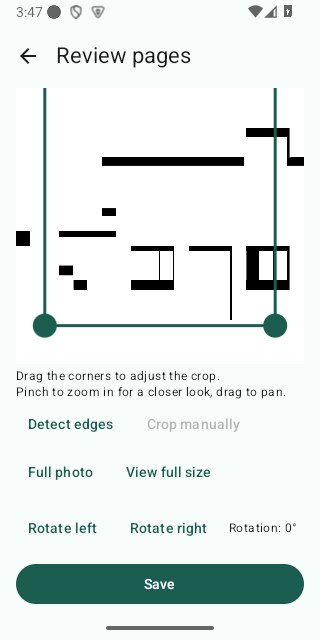
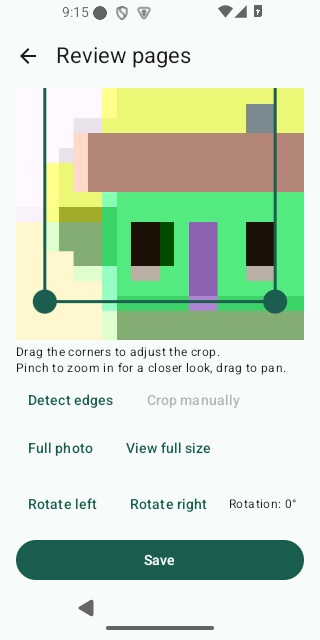
feat(android): default Page Review's filter to color
Color is the only one of the three filters that can't lose content —
grayscale and black-and-white both discard information a page might
actually need — so it's a safer default than black-and-white for the
first page of a capture session.

Closes #84

diff --git a/android/app/src/androidTest/java/com/github/tomasbjerre/keepsheet/PageReviewScreenTest.kt b/android/app/src/androidTest/java/com/github/tomasbjerre/keepsheet/PageReviewScreenTest.kt
@@ -64,24 +64,28 @@ class PageReviewScreenTest {
     fun tearDown() = Intents.release()
 
     /** Selection is tracked per-page (by uri), not by slot — tapping a different thumbnail
-     * must show THAT page's own filter, not whatever the previously selected page had. */
+     * must show THAT page's own filter, not whatever the previously selected page had.
+     * Picks Black & white (not color, see keepsheet#84's new default) for the first page
+     * precisely because it differs from the default every page starts with, so the second
+     * page's filter staying at that default is actual evidence of per-page tracking, not a
+     * coincidence of both pages starting equal. */
     @Test
     fun selectingAPageShowsItsOwnFilterNotThePreviouslySelectedPagesFilter() {
         importTwoSamplePages()
 
-        composeRule.onNodeWithText("Color").performScrollTo().performClick()
-        composeRule.onNodeWithText("Color").assertIsSelected()
+        composeRule.onNodeWithText("Black & white").performScrollTo().performClick()
+        composeRule.onNodeWithText("Black & white").assertIsSelected()
 
         // Scrolled the thumbnail strip out of view above — scrollTo() on a LazyRow item
         // doesn't propagate to the outer Column, so scroll to a direct Column child
         // (right above the strip) to bring the whole top of the screen back into view.
         composeRule.onNodeWithText("2 page(s)").performScrollTo()
         composeRule.onAllNodesWithTag(REVIEW_THUMBNAIL_TEST_TAG)[1].performClick()
-        composeRule.onNodeWithText("Black & white").performScrollTo().assertIsSelected()
+        composeRule.onNodeWithText("Color").performScrollTo().assertIsSelected()
 
         composeRule.onNodeWithText("2 page(s)").performScrollTo()
         composeRule.onAllNodesWithTag(REVIEW_THUMBNAIL_TEST_TAG)[0].performClick()
-        composeRule.onNodeWithText("Color").performScrollTo().assertIsSelected()
+        composeRule.onNodeWithText("Black & white").performScrollTo().assertIsSelected()
     }
 
     /** See specs/ui-flows.md#3-page-review (keepsheet#67): a read-only full-screen view of

diff --git a/android/app/src/main/java/com/github/tomasbjerre/keepsheet/pdf/PageFilters.kt b/android/app/src/main/java/com/github/tomasbjerre/keepsheet/pdf/PageFilters.kt
@@ -29,9 +29,9 @@ fun applyFilter(
 
 /**
  * The filter a page starts with: the last one used in the current capture session, or
- * black-and-white for the first page of a new one.
+ * color for the first page of a new one (keepsheet#84).
  */
-fun defaultFilter(lastUsed: PageFilter?): PageFilter = lastUsed ?: PageFilter.BLACK_AND_WHITE
+fun defaultFilter(lastUsed: PageFilter?): PageFilter = lastUsed ?: PageFilter.COLOR
 
 private const val BLACK = 0xFF000000.toInt()
 private const val WHITE = 0xFFFFFFFF.toInt()

diff --git a/android/app/src/test/java/com/github/tomasbjerre/keepsheet/pdf/PageFiltersTest.kt b/android/app/src/test/java/com/github/tomasbjerre/keepsheet/pdf/PageFiltersTest.kt
@@ -98,8 +98,8 @@ class PageFiltersTest {
     }
 
     @Test
-    fun `first page defaults to black and white, later pages to the last used filter`() {
-        assertThat(defaultFilter(null)).isEqualTo(PageFilter.BLACK_AND_WHITE)
+    fun `first page defaults to color, later pages to the last used filter`() {
+        assertThat(defaultFilter(null)).isEqualTo(PageFilter.COLOR)
         assertThat(defaultFilter(PageFilter.GRAYSCALE)).isEqualTo(PageFilter.GRAYSCALE)
     }
 }

diff --git a/specs/capture-and-processing.md b/specs/capture-and-processing.md
@@ -93,9 +93,11 @@ others in the same document:
   content, where grayscale reads better.
 
 The filter is chosen per page, defaulting to the last filter used in the
-current capture session (or black-and-white for the first page of a new
-one — the most common case, a text document), and can be changed at any
-time before finalizing (see [UI Flows](ui-flows.md#3-page-review)).
+current capture session (or color for the first page of a new one — it's
+the only one of the three that can't lose content, since grayscale and
+black-and-white both discard information a page might actually need),
+and can be changed at any time before finalizing (see
+[UI Flows](ui-flows.md#3-page-review)).
 
 Grayscale and black-and-white read as similar options, but can produce very
 different results depending on what's on the page — grayscale keeps
